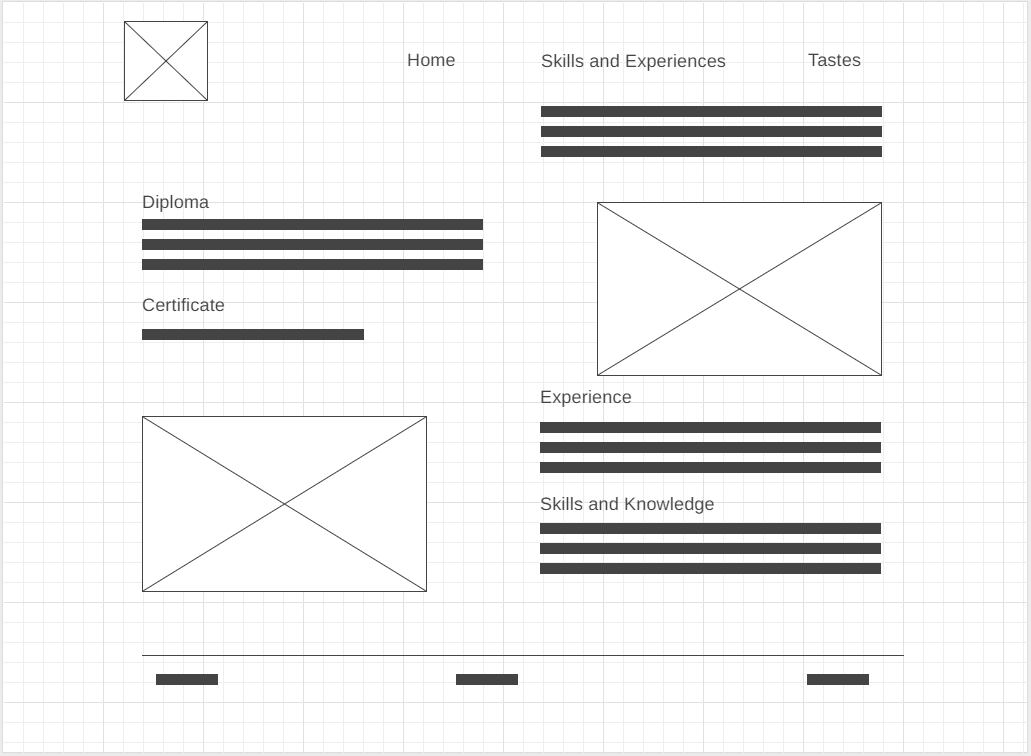
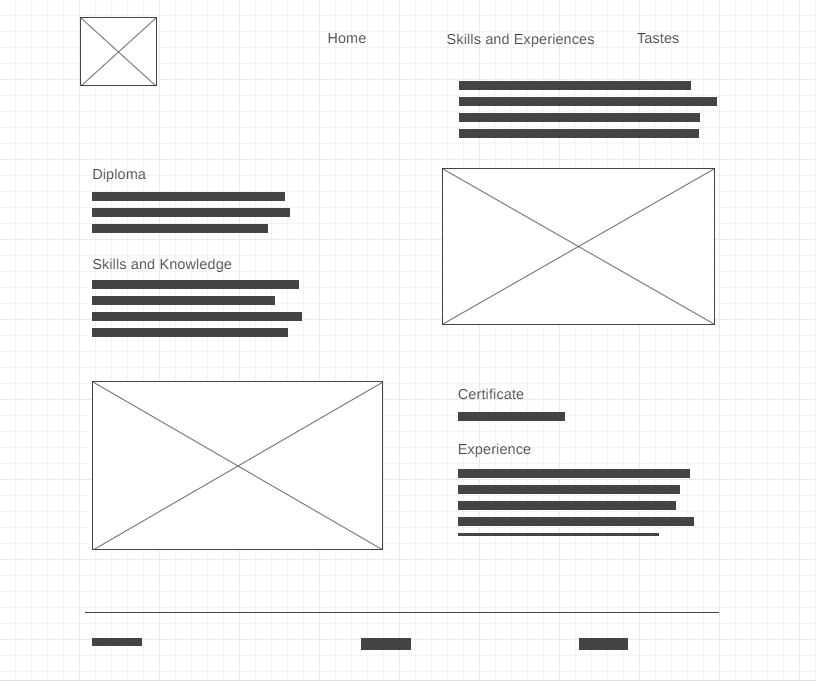
skills and exp page update

diff --git a/portfolio/styles/skills-experience.css b/portfolio/styles/skills-experience.css
@@ -5,8 +5,8 @@
     box-sizing: border-box;
 }
 body {
-    width: 80%;
-    max-width: 1000px;
+    width: 90%;
+    max-width: 1100px;
     margin: 0 auto;
     font-family: raleway, Helvetica, sans-serif;
     background-color: #003049;
@@ -54,11 +54,19 @@ nav a:hover, footer a:hover {
     display: grid;
     grid-template-columns: 2fr 2fr;
     grid-template-rows: 2fr 2fr;
-    justify-items: center;
     align-items: center;
+}
+.certificate-experience {
+    margin-left: 3em;
 }
 .it-tech-img, .printer-tech-img {
     width: 85%;
+}
+.it-tech-img {
+    margin-left: 3em;
+}
+.printer-tech-img {
+    padding-top: 1.5em;
 }
 h2:nth-child(3) {
     margin-top: 2em;

diff --git a/portfolio/skills-experiences.html b/portfolio/skills-experiences.html
@@ -49,7 +49,7 @@
                 <img src="images/printer_tech.jpg" alt="Printer technician">
             </div>
 
-            <section class="cetificate-experience">
+            <section class="certificate-experience">
                 <h2>Certificate</h2>
                 <ul>
                     <li>BYU PathwayConnect</li>
